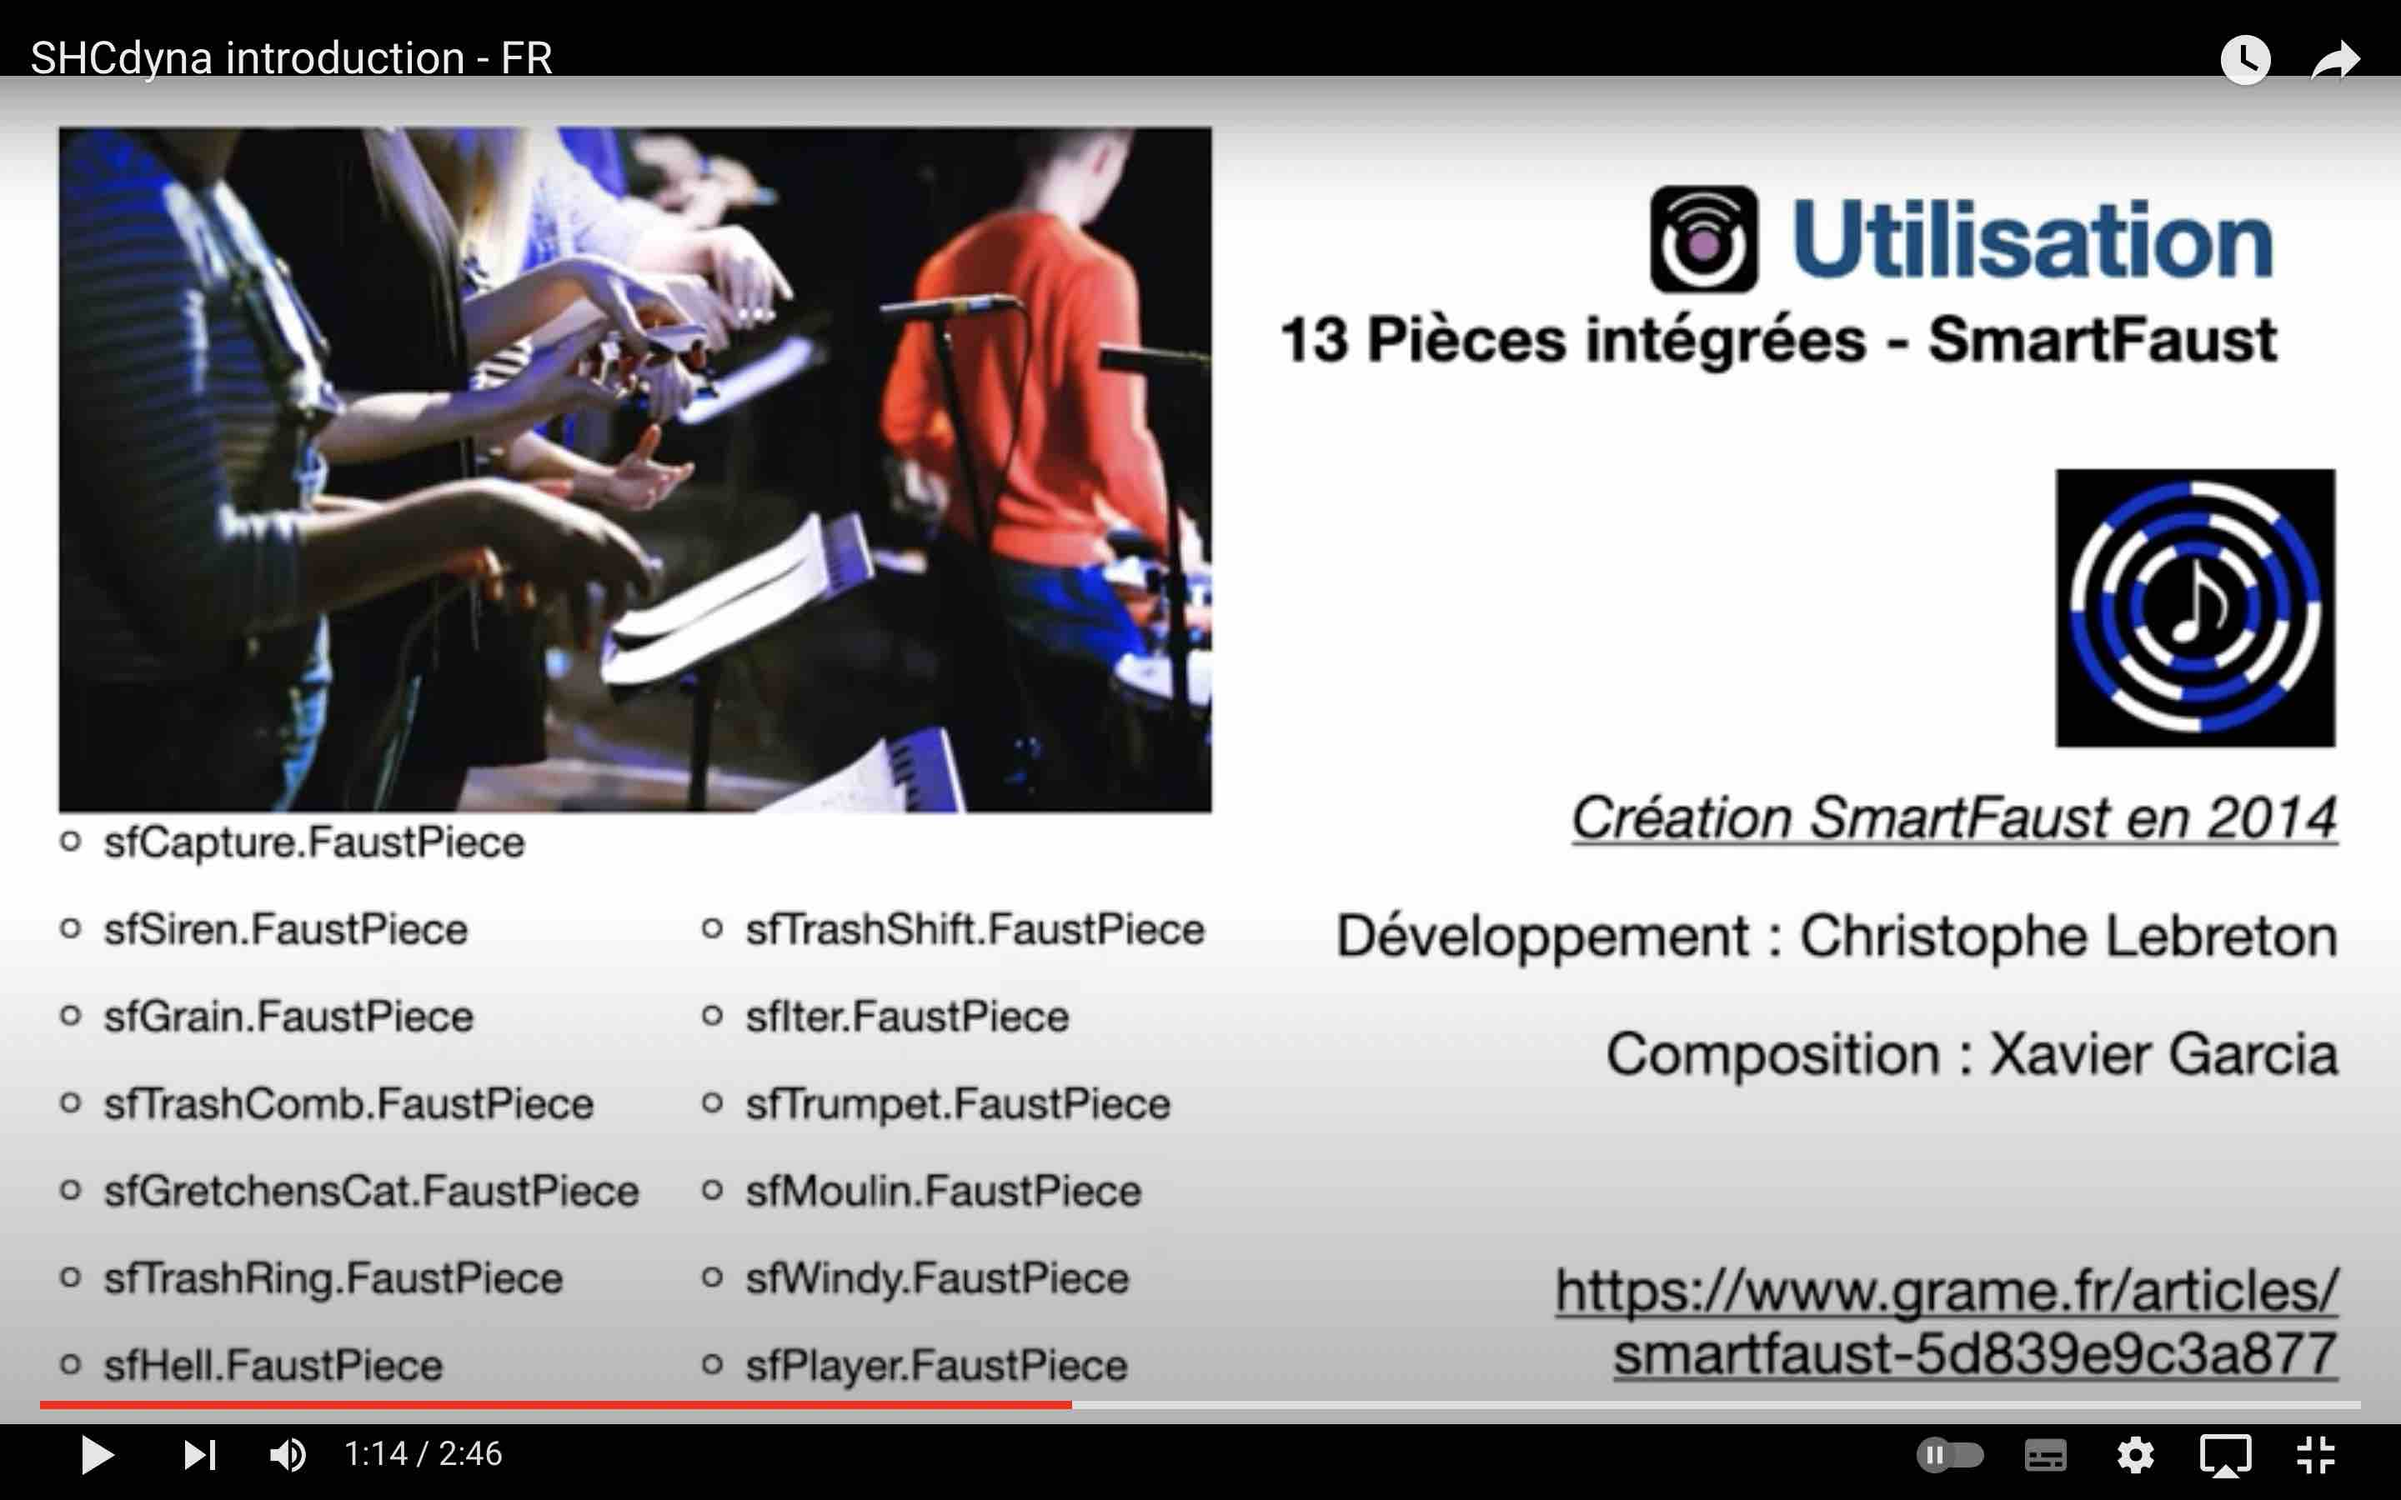
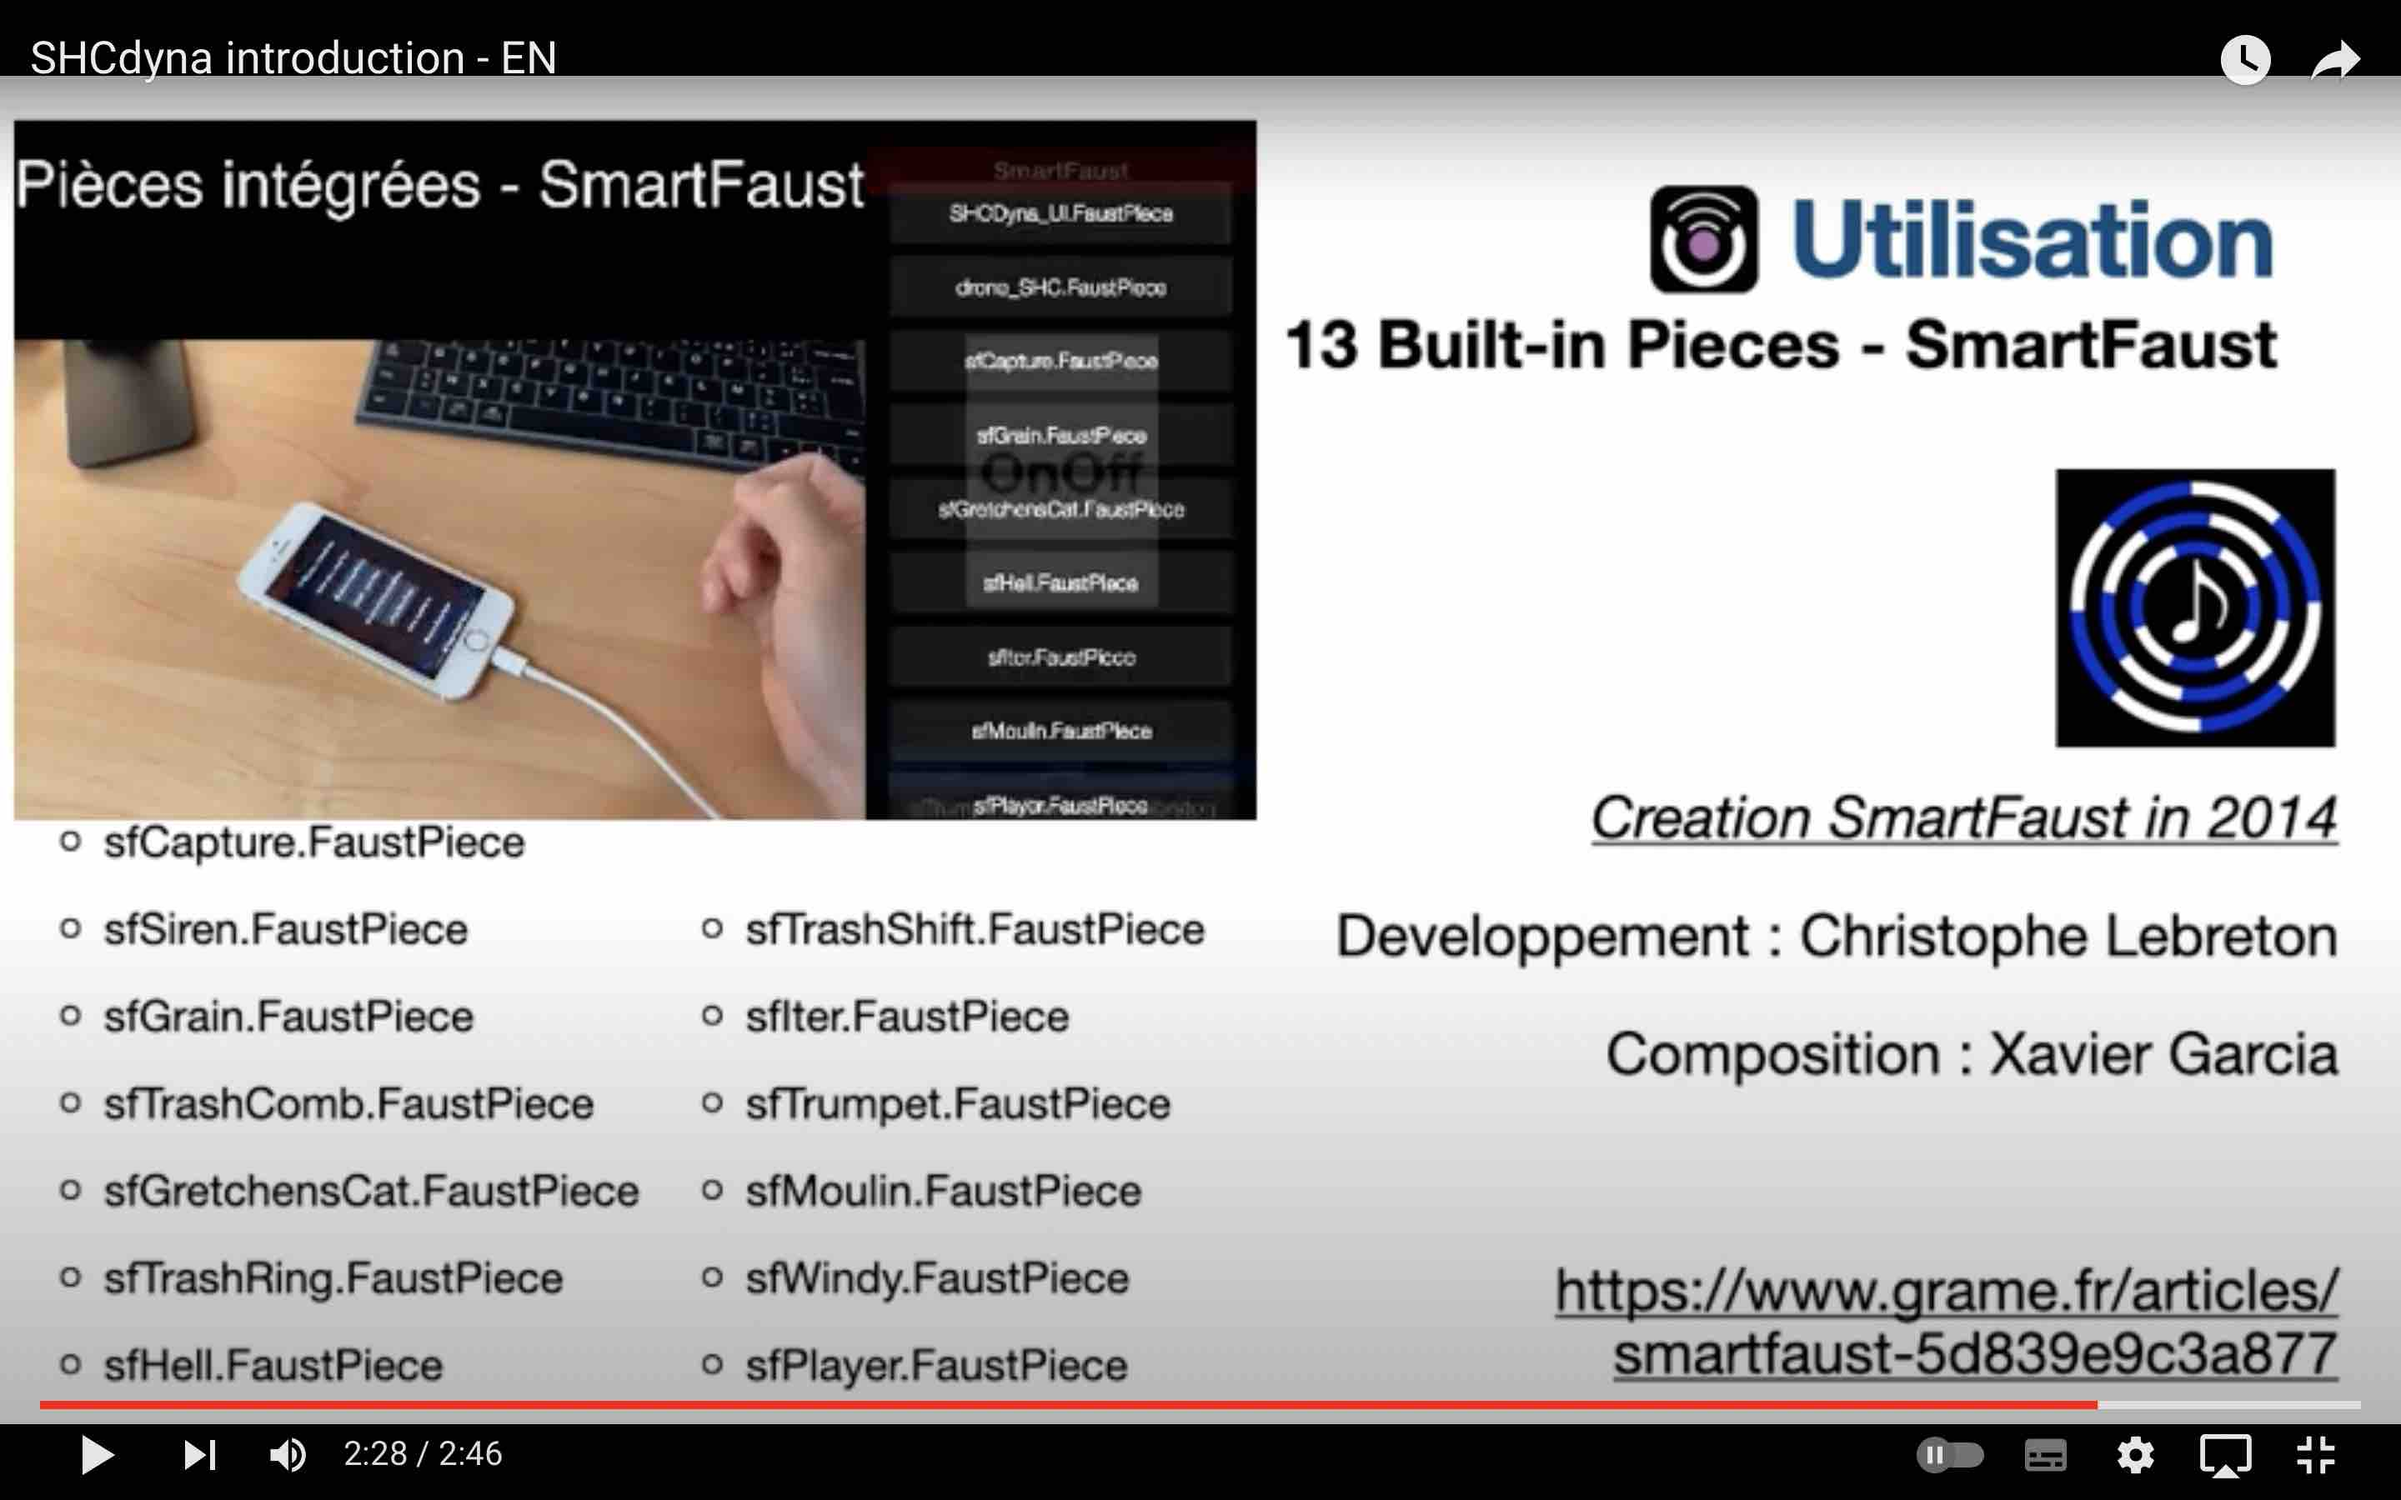
English SHCDyna project.

diff --git a/docs/community/powered-by-faust/index.html b/docs/community/powered-by-faust/index.html
@@ -1156,8 +1156,8 @@ Several commercial applications incorporate Faust for high-performance audio pro
 
 <h2 id="project-list">Project list</h2>
 <p>The following sections provide a detailed list of current projects utilizing Faust.</p>
-<h3 id="shcdyna"><a href="https://www.lisilog.com/shcdyna-fr/">SHCdyna</a></h3>
-<div><a href="https://www.lisilog.com/shcdyna-fr/"><img width="60%" class="mx-auto d-block" src="img/shcdyna.jpg"></a> </div>
+<h3 id="shcdyna"><a href="https://www.lisilog.com/en/shcdyna-en/">SHCdyna</a></h3>
+<div><a href="https://www.lisilog.com/en/shcdyna-en/"><img width="60%" class="mx-auto d-block" src="img/shcdyna.jpg"></a> </div>
 
 <p>SHCdyna is a dynamic and interactive application for musical performance. It allows compiling and executing code in the Faust programming language dynamically, interacting with motion sensors, and creating custom tactile user interfaces. The application uses the <a href="https://faustdoc.grame.fr/manual/embedding/#using-libfaust-with-the-interpreter-backend">Interp backend</a> to be deployed on iOS, where JIT compilation is forbidden by Apple. All <a href="#smartfaust">SmartFaust</a> applications are available in the application, and new ones can be developed in <a href="https://faustide.grame.fr">Faust IDE</a> (for instance) and then installed in the application. </p>
 <h3 id="formuls"><a href="https://github.com/jrdooley/formuls">formuls</a></h3>

diff --git a/docs/index.html b/docs/index.html
@@ -496,5 +496,5 @@ Great birthday present for the 20th anniversary of the Faust language! Developed
 
 <!--
 MkDocs version : 1.4.3
-Build Date UTC : 2024-09-29 06:56:41.347179+00:00
+Build Date UTC : 2024-09-29 09:51:13.793435+00:00
 -->

diff --git a/mkdocs/docs/community/powered-by-faust.md b/mkdocs/docs/community/powered-by-faust.md
@@ -30,9 +30,9 @@ To illustrate the global impact of Faust, a world map showcases all the projects
 
 The following sections provide a detailed list of current projects utilizing Faust.
 
-### [SHCdyna](https://www.lisilog.com/shcdyna-fr/)
+### [SHCdyna](https://www.lisilog.com/en/shcdyna-en/)
 
-<div><a href="https://www.lisilog.com/shcdyna-fr/"><img width="60%" class="mx-auto d-block" src="img/shcdyna.jpg"></a> </div>
+<div><a href="https://www.lisilog.com/en/shcdyna-en/"><img width="60%" class="mx-auto d-block" src="img/shcdyna.jpg"></a> </div>
 
 SHCdyna is a dynamic and interactive application for musical performance. It allows compiling and executing code in the Faust programming language dynamically, interacting with motion sensors, and creating custom tactile user interfaces. The application uses the [Interp backend](  https://faustdoc.grame.fr/manual/embedding/#using-libfaust-with-the-interpreter-backend) to be deployed on iOS, where JIT compilation is forbidden by Apple. All [SmartFaust](#smartfaust) applications are available in the application, and new ones can be developed in [Faust IDE](https://faustide.grame.fr) (for instance) and then installed in the application. 
 
